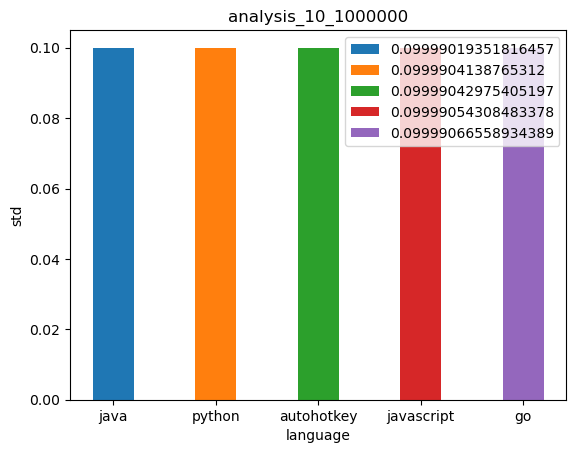
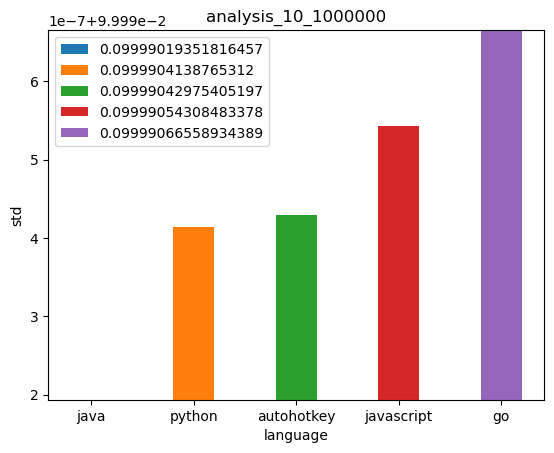
axis normalize website

diff --git a/analysis/stats.py b/analysis/stats.py
@@ -1,6 +1,6 @@
 import statistics as st
 import heapq
-# from sklearn import preprocessing
+from sklearn import preprocessing
 
 from util import read_output_files_and_perform, perform_probability_per_language
 
@@ -29,11 +29,11 @@ def analysis_one(languages, numbers, trials):
 	# split by trial, however variance is already split
 	return [heapq.heappop(resHeap) for i in range(len(resHeap))]
 
-# def normalize_group(analysisList):
-# 	return preprocessing.minmax_scale(analysisList, feature_range=(analysisList[0], analysisList[-1]))
+def normalize_group(analysisList):
+	return preprocessing.minmax_scale(analysisList, feature_range=(analysisList[0], analysisList[-1]))
 
-# def perc(num):
-# 	return 0
+def perc(num):
+	return 0
 
 def analysis_all():
 	analysisList = read_output_files_and_perform(analysis_one)

diff --git a/analysis/graph.py b/analysis/graph.py
@@ -1,6 +1,7 @@
 import matplotlib.pyplot as plt
 
 from util import read_output_files_and_perform, perform_probability_per_language, parse
+from stats import normalize_group, perc
 
 # this plots multiple result files
 def multiplot(languages, numbers, trials, *args):
@@ -78,8 +79,8 @@ def plot_analysis(analysisList):
 
 			language, numbers, trials = filename.split("_")
 
-			# if i==0: plt.axis(ymin=std-perc(std))
-			# elif i==len(trialList)-1: plt.axis(ymax=std+perc(std))
+			if i==0: plt.axis(ymin=std-perc(std))
+			elif i==len(trialList)-1: plt.axis(ymax=std+perc(std))
 
 			_bar(language, std)
 		_plot_graph('language', 'std', f'analysis_{numbers}_{trials}', True)

diff --git a/README.md b/README.md
@@ -4,6 +4,9 @@ An example of random number generation in different programming [languages](/sou
 # hacktoberfest
 A hactoberfest-friendly project
 
+# file structure
+Overview of folder layout
+
 ## Contribute
 Create an example of generating a million random numbers and calculating the percentage for each bucket.  
 
